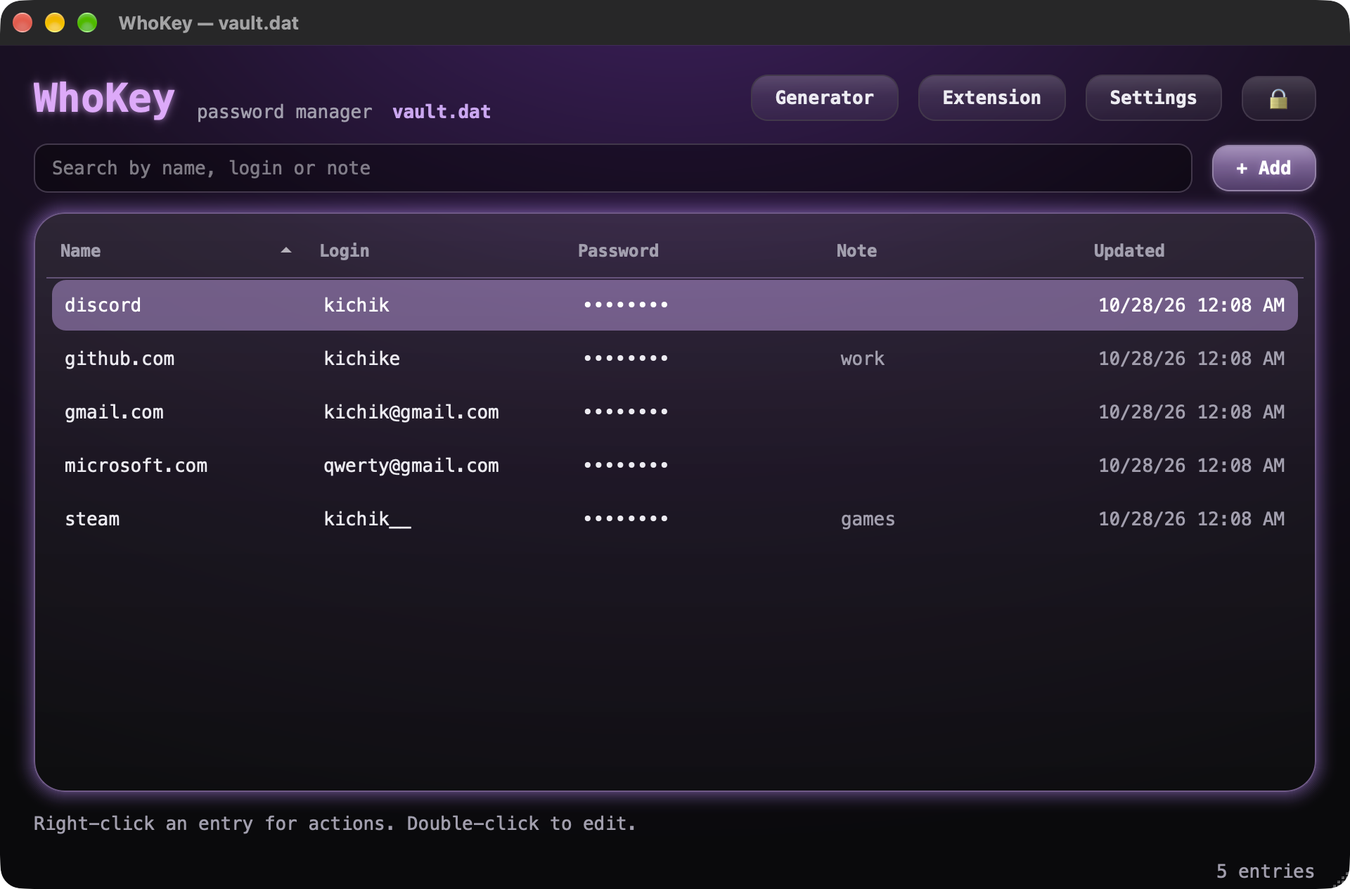
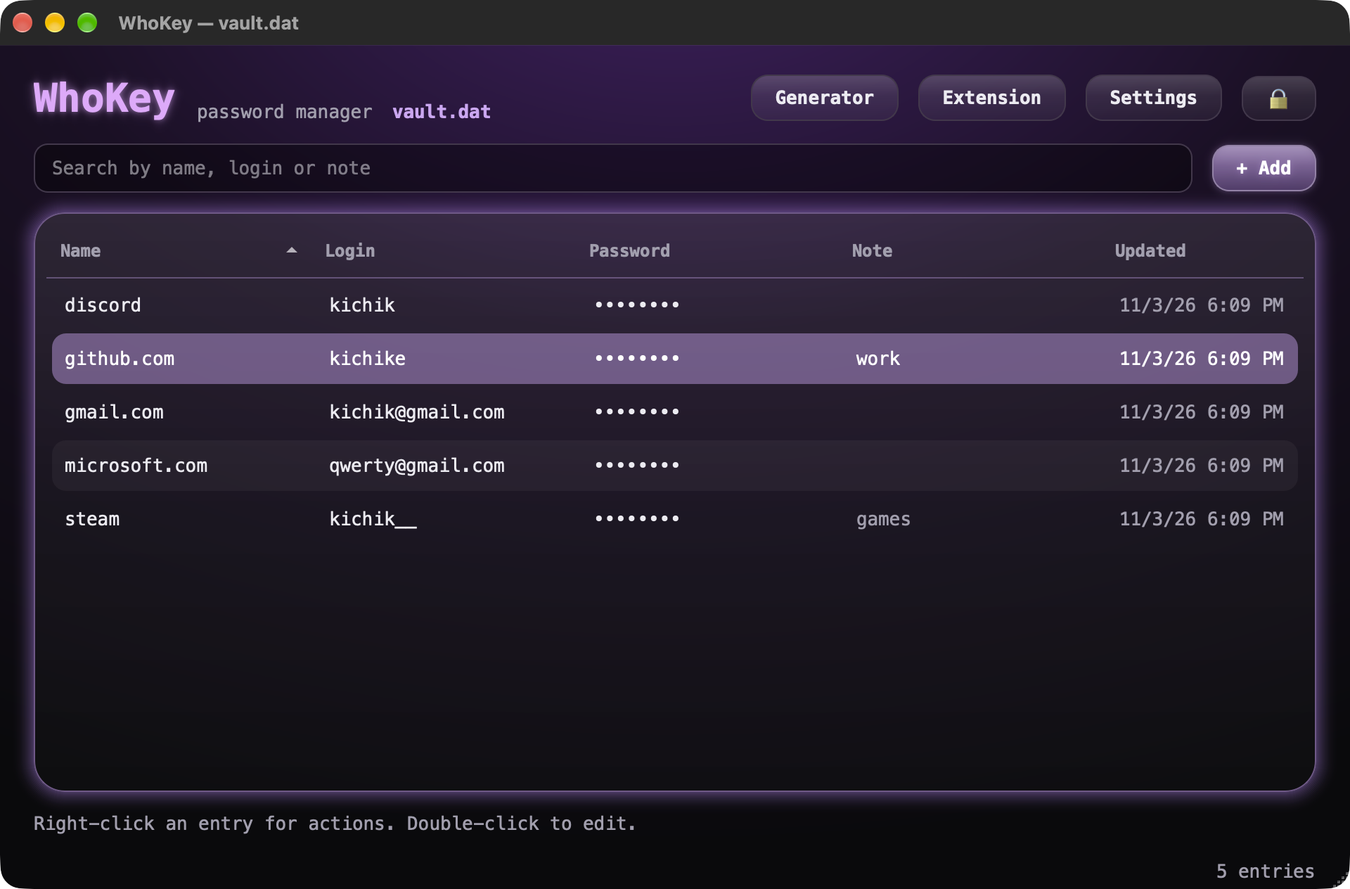
Security review fixes for 1.5.1; new README screenshots
- Generate: WhoKey opens the new entry with the password first, the page is filled only after;
  no password is created when the entry window cannot open (another dialog, locked)
- Show and generate answer window_busy instead of a silent ok; generate is limited to 5/min
- New entry with a password from the extension asks before closing without saving
- Fill target is kept under a Symbol key: a page element with id=__whokeyTarget cannot replace it
- Current/old password fields are never overwritten by Generate
- Encrypted vault copy is created with mode 600

Changed region(s): [[0.0312, 0.2777, 0.9688, 0.5862], [0.625, 0.5554, 0.6562, 0.6171]]

diff --git a/extension/background.js b/extension/background.js
@@ -141,9 +141,9 @@ async function fillInPage(expectedOrigin, login, password, auto) {
   };
   // Поле, у которого человек нажал на значок WhoKey (inline.js). Эта функция работает в том
   // же изолированном от сайта мире расширения, что и inline.js, поэтому видит его отметку,
-  // а сайт — нет. Отметка одноразовая
-  const target = globalThis.__whokeyTarget;
-  globalThis.__whokeyTarget = null;
+  // а сайт — нет. Ключ — символ: элементом страницы с таким id его не подменить
+  const marked = globalThis[Symbol.for("whokey.target")];
+  const target = marked instanceof HTMLInputElement ? marked : null;
   // поле могло оказаться ниже экрана — прокрутим к нему, прежде чем проверять видимость
   const focus = target && target.isConnected ? target : document.querySelector("input[type=password]");
   if (focus) focus.scrollIntoView({ block: "center" });
@@ -289,24 +289,35 @@ async function hideOnSite(tabId, url) {
   await menuCommand(tabId, "inline_off");
 }
 
-// Эта функция выполняется ВНУТРИ страницы: вписывает сгенерированный пароль в поля
-// нового пароля той формы, у которой нажали на значок (и в «Повторите пароль»).
-// Возвращает логин из той же формы — чтобы WhoKey открыл запись уже с ним
+// Эта функция выполняется ВНУТРИ страницы: находит поля нового пароля той формы, у которой
+// нажали на значок (и «Повторите пароль»), и логин из той же формы. С password — вписывает
+// пароль; без него только проверяет, есть ли куда вписывать (до того, как просить WhoKey)
 function fillNewPassword(expectedOrigin, password) {
-  const target = globalThis.__whokeyTarget;
-  globalThis.__whokeyTarget = null;
   if (location.origin !== expectedOrigin) return { ok: false, reason: "moved" };
-  if (!target || !target.isConnected || target.type !== "password") return { ok: false, reason: "no_field" };
+  const marked = globalThis[Symbol.for("whokey.target")];
+  const target = marked instanceof HTMLInputElement && marked.isConnected ? marked : null;
+  if (!target || target.type !== "password") return { ok: false, reason: "no_field" };
   const shown = (el) => !el.disabled && !el.readOnly
     && (!el.checkVisibility || el.checkVisibility({ opacityProperty: true, visibilityProperty: true }))
     && el.getBoundingClientRect().width >= 8;
   const scope = [...(target.form || document).querySelectorAll("input")].filter(shown);
   const passwords = scope.filter((el) => el.type === "password");
-  const marked = passwords.filter((el) => (el.autocomplete || "").toLowerCase() === "new-password");
+  if (!passwords.includes(target)) return { ok: false, reason: "no_field" }; // поле спрятали
+  const hint = (el) => `${el.autocomplete || ""} ${el.name || ""} ${el.id || ""}`.toLowerCase();
+  // «текущий / старый пароль» не трогаем никогда
+  const current = (el) => /current-password|current|old/.test(hint(el));
+  const candidates = passwords.filter((el) => !current(el));
+  const newMarked = candidates.filter((el) => /new-password/.test(hint(el)));
   // помеченные сайтом «новый пароль»; иначе пароль + повтор; иначе это поле и следующие
-  // (в «старый, новый, повтор» старый не трогаем)
-  const fields = marked.length ? marked
-    : passwords.length === 2 ? passwords : passwords.slice(passwords.indexOf(target));
+  const fields = newMarked.length ? newMarked
+    : candidates.length === 2 ? candidates
+      : candidates.slice(Math.max(candidates.indexOf(target), 0));
+  if (!fields.length || current(target)) return { ok: false, reason: "no_field" };
+  const before = scope.slice(0, scope.indexOf(fields[0]));
+  const loginField = before.filter((el) => el.autocomplete === "username").pop()
+    || before.filter((el) => ["text", "email", "tel", ""].includes(el.type)).pop();
+  const login = loginField ? loginField.value.trim().slice(0, 256) : "";
+  if (password === null) return { ok: true, login };
   const setter = Object.getOwnPropertyDescriptor(HTMLInputElement.prototype, "value").set;
   for (const el of fields) {
     el.focus();
@@ -314,32 +325,37 @@ function fillNewPassword(expectedOrigin, password) {
     el.dispatchEvent(new Event("input", { bubbles: true }));
     el.dispatchEvent(new Event("change", { bubbles: true }));
   }
-  const before = scope.slice(0, scope.indexOf(fields[0]));
-  const login = before.filter((el) => el.autocomplete === "username").pop()
-    || before.filter((el) => ["text", "email", "tel", ""].includes(el.type)).pop();
-  return { ok: true, login: login ? login.value.trim().slice(0, 256) : "" };
+  return { ok: true, login };
 }
 
+async function inPage(tabId, url, password) {
+  try {
+    const [{ result }] = await chrome.scripting.executeScript({
+      target: { tabId }, func: fillNewPassword, args: [new URL(url).origin, password],
+    });
+    return result || { ok: false, reason: "no_field" };
+  } catch (e) {
+    return { ok: false, reason: "moved" };
+  }
+}
+
+// Порядок важен (ревью безопасности 1.5.1): пароль сначала появляется в WhoKey (окно новой
+// записи), и только потом на сайте. Если WhoKey не может открыть окно — пароль не создаётся,
+// и на сайт ничего не уходит: пароль не окажется там, где его нигде не записали
 async function generate(tabId, url) {
-  const reply = await api({ type: "generate", url });
+  const form = await inPage(tabId, url, null); // есть ли вообще куда вписывать
+  if (!form.ok) return { status: form.reason };
+  const reply = await api({ type: "generate", url, login: form.login });
   if (reply.status !== "ok") return reply;
   await menuCommand(tabId, "menu_hide");
-  let result;
-  try {
-    [{ result }] = await chrome.scripting.executeScript({
-      target: { tabId }, func: fillNewPassword, args: [new URL(url).origin, reply.password],
-    });
-  } catch (e) {
-    result = { ok: false, reason: "moved" };
-  }
-  if (!result || !result.ok) {
+  const result = await inPage(tabId, url, reply.password);
+  if (!result.ok) {
+    // в WhoKey пароль уже есть (окно новой записи открыто) — его можно скопировать оттуда
     await menuCommand(tabId, "menu_unhide");
-    return { status: (result && result.reason) || "no_field" };
+    return { status: "generated_not_filled" };
   }
-  // пароль уже в форме — сразу сохраняем его в WhoKey (окно новой записи), чтобы не потерять
   await closeMenu(tabId);
-  const saved = await api({ type: "show", url, login: result.login, password: reply.password });
-  return { status: saved.status === "ok" ? "generated" : saved.status };
+  return { status: "generated" };
 }
 
 // Команда меню на вкладке: menu_close — закрыть, menu_hide / menu_unhide — спрятать и

diff --git a/extension/inline.js b/extension/inline.js
@@ -9,6 +9,10 @@
 (() => {
   if (window.top !== window) return; // только сама страница, не встроенные в неё фреймы
 
+  // отметка поля для вставки (см. background.js): по ключу-символу, а не по имени —
+  // элемент страницы с id="__whokeyTarget" подменил бы обычное свойство window
+  const TARGET = Symbol.for("whokey.target");
+  globalThis[TARGET] = null;
[1 lines of base64/hex data omitted]
   const SIZE = 20;      // значок, точек
   const GAP = 8;        // от правого края поля
@@ -164,7 +168,7 @@
     closeMenu();
     // отметка для вставки пароля (fillInPage в background.js): заполнять эту форму, а не первую.
     // Живёт в изолированном мире расширения — сайт её не видит
-    globalThis.__whokeyTarget = field;
+    globalThis[TARGET] = field;
     const frame = document.createElement("iframe");
     frame.src = chrome.runtime.getURL("menu.html");
     frame.style.height = "120px"; // точную высоту меню сообщит само (menu_size)
@@ -176,6 +180,7 @@
   function closeMenu() {
     if (menu) menu.frame.remove();
     menu = null;
+    globalThis[TARGET] = null; // меню закрыли — отметка поля больше не нужна
   }
 
   // сообщения приходят только от самого расширения (страница их послать не может)

diff --git a/extension/menu.js b/extension/menu.js
@@ -50,7 +50,8 @@ const TEXTS = {
   not_installed: ["not_installed", "bad"], bridge_closed: ["bridge_closed", "bad"], bad_page: ["bad_page", "bad"],
   not_found: ["not_found", "bad"], error: ["error", "bad"], busy: ["busy", "bad"], timeout: ["timeout", "bad"],
   fake_app: ["fake_app", "bad"], ambiguous: ["choose", ""], cancelled: ["connecting", ""],
-  generated: ["generated", "good"],
+  generated: ["generated", "good"], generated_not_filled: ["generated_not_filled", "bad"],
+  window_busy: ["window_busy", "bad"],
 };
 
 function status(text, kind = "") {

diff --git a/extension/popup.js b/extension/popup.js
@@ -29,6 +29,7 @@ const TEXTS = {
   timeout: ["timeout", "bad"],
   fake_app: ["fake_app", "bad"],
   ambiguous: ["ambiguous", "bad"],
+  window_busy: ["window_busy", "bad"],
   cancelled: ["connecting", ""],
 };
 

diff --git a/gui/bridge.py b/gui/bridge.py
@@ -45,7 +45,7 @@ MAX_CONNECTIONS = 8                # больше одновременно не 
 REQUEST_TIMEOUT_MS = 5000          # соединение без запроса дольше этого закрывается
 PAIR_COOLDOWN = 10                 # секунд после отказа — новые запросы разрешения не показываем;
 PAIR_COOLDOWN_MAX = 600            # после каждого следующего отказа пауза вдвое длиннее, до 10 минут
-RATE_LIMIT = {"logins": 30, "fill": 10, "show": 5, "generate": 10}  # запросов в минуту
+RATE_LIMIT = {"logins": 30, "fill": 10, "show": 5, "generate": 5}  # запросов в минуту
 MAX_FIELD = 256  # логин и пароль из расширения для новой записи — не длиннее
 CLOSE_AFTER_MS = 2000              # после ответа: сколько ждём, пока собеседник закроет соединение
 
@@ -240,21 +240,34 @@ class BridgeServer(QObject):
             return self._fill(request, url)
         if kind == "generate":
             # «Сгенерировать пароль» в форме регистрации: тем же генератором и с теми же
-            # настройками, что в окне WhoKey. Ничего не сохраняется — это делает «show»
+            # настройками, что в окне WhoKey. Пароль выдаётся, ТОЛЬКО если WhoKey может сразу
+            # открыть с ним новую запись: сначала он появляется в WhoKey, потом на сайте —
+            # иначе пароль мог бы оказаться на сайте и нигде больше (ревью безопасности 1.5.1)
+            login = request.get("login", "")
+            if not isinstance(login, str) or len(login) > MAX_FIELD:
+                return {"status": "error"}
+            if not self._can_show():
+                return {"status": "window_busy"}
             length, kinds = prefs.generator_options() or (20, {})
             if not any(kinds.values()):
                 kinds = {}  # все наборы символов выключены — берём обычные (все)
-            return {"status": "ok", "password": generate_password(max(length, 12), **kinds)}
-        if kind == "show":
-            # «Добавить в WhoKey» из расширения: окно новой записи с уже вписанным адресом,
-            # а после «Сгенерировать пароль» — ещё с логином и паролем из формы
-            # (после ответа: окно не держит мост)
-            login, password = request.get("login", ""), request.get("password", "")
-            if not all(isinstance(x, str) and len(x) <= MAX_FIELD for x in (login, password)):
-                return {"status": "error"}
+            password = generate_password(max(length, 12), **kinds)
             QTimer.singleShot(0, lambda: self._show_new_entry(url, login, password))
+            return {"status": "ok", "password": password}
+        if kind == "show":
+            # «Добавить в WhoKey» из расширения: окно новой записи с уже вписанным адресом
+            # (после ответа: окно не держит мост)
+            if not self._can_show():
+                return {"status": "window_busy"}
+            QTimer.singleShot(0, lambda: self._show_new_entry(url))
             return {"status": "ok"}
         return {"status": "error"}
+
+    def _can_show(self):
+        """Можно ли сейчас открыть окно новой записи: WhoKey открыт и в нём нет другого окна
+        (второе поверх не открываем — человек запутается, что сохраняет)."""
+        window = self.window
+        return window is not None and hasattr(window, "add") and not window.findChildren(QDialog)
 
     def _show_new_entry(self, url, login="", password=""):
         window = self.window
@@ -263,7 +276,7 @@ class BridgeServer(QObject):
         window.showNormal()
         window.raise_()
         window.activateWindow()
-        if not window.findChildren(QDialog):  # уже открыто какое-то окно — второе поверх не открываем
+        if self._can_show():
             address = sites.normalize(url) or ""
             # без «www.»: запись для github.com подойдёт и www.github.com, а наоборот — нет
             window.add(url=address[4:] if address.startswith("www.") else address, login=login, password=password)

diff --git a/tests/test_bridge.py b/tests/test_bridge.py
@@ -127,20 +127,30 @@ class Requests(unittest.TestCase):
         self.assertEqual(self.ask(type="show", url="http://github.com")["status"], "bad_page")
         self.assertEqual(self.server.handle({"type": "show", "url": "https://github.com"})["status"], "pair_required")
 
-    def test_generate_and_show_with_login_and_password(self):
-        reply = self.ask(type="generate", url="https://github.com/signup")
-        self.assertEqual(reply["status"], "ok")
-        self.assertGreaterEqual(len(reply["password"]), 12)
-        self.assertNotEqual(reply["password"], self.ask(type="generate", url="https://github.com")["password"])
-        self.assertEqual(self.server.handle({"type": "generate", "url": "https://github.com"})["status"], "pair_required")
-        self.assertEqual(self.ask(type="generate", url="http://github.com")["status"], "bad_page")
+    def test_generate_opens_the_entry_before_giving_the_password(self):
+        """Ревью 1.5.1: пароль сначала в WhoKey (окно новой записи), потом на сайте."""
         added = []
         self.server.window.add = lambda url="", login="", password="": added.append((url, login, password))
-        self.assertEqual(self.ask(type="show", url="https://github.com", login="egor", password="Нов-ый1!"), {"status": "ok"})
+        reply = self.ask(type="generate", url="https://github.com/signup", login="egor")
+        self.assertEqual(reply["status"], "ok")
+        self.assertGreaterEqual(len(reply["password"]), 12)
         QCoreApplication.processEvents()
-        self.assertEqual(added, [("github.com", "egor", "Нов-ый1!")])
-        for bad in ({"login": ["x"]}, {"password": 5}, {"password": "x" * 300}):
-            self.assertEqual(self.ask(type="show", url="https://github.com", **bad)["status"], "error")
+        self.assertEqual(added, [("github.com", "egor", reply["password"])])
+        self.assertEqual(self.server.handle({"type": "generate", "url": "https://github.com"})["status"], "pair_required")
+        self.assertEqual(self.ask(type="generate", url="http://github.com")["status"], "bad_page")
+        for bad in (["x"], 5, "x" * 300):
+            self.assertEqual(self.ask(type="generate", url="https://github.com", login=bad)["status"], "error")
+
+    def test_no_password_when_the_entry_window_cannot_open(self):
+        from PySide6.QtWidgets import QDialog
+        self.server.window.add = lambda **_: None
+        dialog = QDialog(self.server.window)  # в WhoKey уже открыто другое окно
+        for kind in ("generate", "show"):
+            reply = self.ask(type=kind, url="https://github.com")
+            self.assertEqual(reply, {"status": "window_busy"})
+        dialog.deleteLater()
+        self.server.window = None  # WhoKey заблокирован
+        self.assertEqual(self.ask(type="generate", url="https://github.com"), {"status": "window_busy"})
 
     def test_rate_limit(self):
         statuses = [self.ask(type="fill", url="https://mail.ru", index=0, login="egor@mail.ru")["status"]

diff --git a/gui/dialogs.py b/gui/dialogs.py
@@ -77,7 +77,12 @@ class EntryDialog(QDialog):
         column.addLayout(form)
         column.addWidget(self.error)
         column.addWidget(_buttons(self, tr("Save")))
-        self._initial = self.values(normalize=False)  # чтобы при закрытии понять, было ли что-то изменено
+        # чтобы при закрытии понять, было ли что-то изменено. У новой записи пароль считается
+        # несохранённым: запись из расширения приходит уже с паролем (он уже вписан на сайте),
+        # и закрыть её молча значило бы этот пароль потерять
+        self._initial = self.values(normalize=False)
+        if "created" not in entry:
+            self._initial["password"] = ""
 
     def _on_generated(self, password, bits):
         # у сохранённой записи старый пароль после «Сохранить» пропал бы насовсем — спрашиваем

diff --git a/tests/test_csv.py b/tests/test_csv.py
@@ -126,6 +126,12 @@ class Dialogs(unittest.TestCase):
     def test_prefilled_from_extension_is_new(self):
         dialog = D.EntryDialog(None, {"site": "github.com", "login": "", "password": "", "note": "", "url": "github.com"})
         self.assertEqual(dialog.windowTitle(), "New entry")
+        dialog.reject()  # только адрес — закрывается без вопроса
+        self.assertEqual(self.asked, [])
+        # пароль из «Сгенерировать» на сайте уже вписан там — молча закрыть нельзя (ревью 1.5.1)
+        dialog = D.EntryDialog(None, {"site": "github.com", "login": "egor", "password": "Gen-1!", "note": "", "url": "github.com"})
+        dialog.reject()
+        self.assertEqual(len(self.asked), 1)
 
     def test_export_needs_master_password(self):
         dialog = D.ExportDialog(None, self.vault)

diff --git a/gui/main_window.py b/gui/main_window.py
@@ -1,5 +1,6 @@
 """Главное окно: поиск, таблица записей и меню действий по правому клику."""
 
+import os
 import shutil
 import sys
 from pathlib import Path
@@ -472,6 +473,7 @@ class MainWindow(QMainWindow):
             return
         try:
             shutil.copyfile(self.vault.path, target)
+            os.chmod(target, 0o600)  # как само хранилище: только владельцу
         except OSError as error:
             show_error(self, tr("Could not write the file: {error}").format(error=error.strerror or error))
             return

diff --git a/tests/test_main_window.py b/tests/test_main_window.py
@@ -76,6 +76,8 @@ class CopyAboutVersion(unittest.TestCase):
         self.window.save_copy()
         self.assertEqual(Vault.open(target, "Зелёный-Кит-Летит-2026!").entries[0]["password"], "pw")
         self.assertNotIn(b"github.com", target.read_bytes())  # внутри — только шифр
+        if sys.platform != "win32":
+            self.assertEqual(target.stat().st_mode & 0o777, 0o600)  # как само хранилище
 
     def test_copy_onto_itself_is_refused(self):
         MW.QFileDialog.getSaveFileName = staticmethod(lambda *a, **k: (str(self.vault.path), ""))
